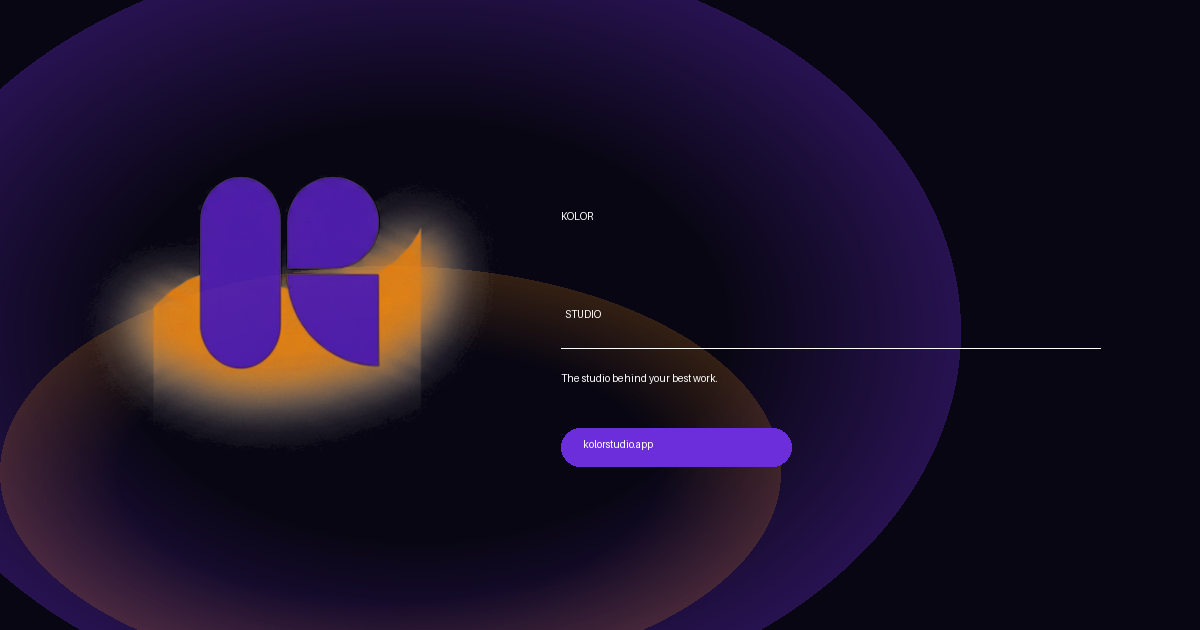
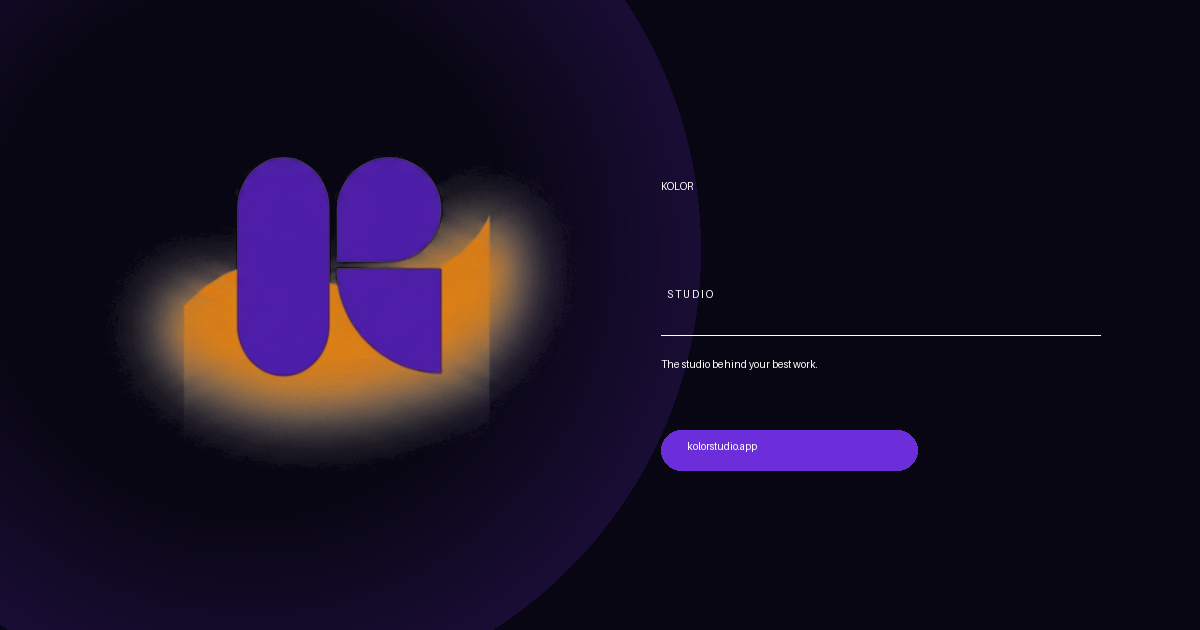
fix: OG card composition + title/description length
- Regenerated og-card.png: cleaner composition, larger mark (320px),
  larger KOLOR text (96pt), tighter subtle glow, better text layout
- og:title expanded to 48 chars (was 12, below optimal)
- og:description expanded to 131 chars (was 91, below optimal)
- twitter:title and twitter:description updated to match

diff --git a/frontend/index.html b/frontend/index.html
@@ -24,14 +24,14 @@
     <meta property="og:image:width" content="1200" />
     <meta property="og:image:height" content="630" />
     <meta property="og:image:alt" content="KOLOR Studio — The studio behind your best work." />
-    <meta property="og:title" content="KOLOR Studio" />
-    <meta property="og:description" content="The studio behind your best work. CRM built for photographers, designers, and fine artists." />
+    <meta property="og:title" content="KOLOR Studio — CRM for Photographers &amp; Artists" />
+    <meta property="og:description" content="Leads, quotes, contracts, and calendar — in one tool built for photographers, designers, and fine artists. The studio behind your best work." />
     <meta property="og:url" content="https://kolorstudio.app" />
     <meta property="og:type" content="website" />
     <meta name="twitter:card" content="summary_large_image" />
     <meta name="twitter:image" content="https://kolorstudio.app/og-card.png" />
-    <meta name="twitter:title" content="KOLOR Studio" />
-    <meta name="twitter:description" content="The studio behind your best work." />
+    <meta name="twitter:title" content="KOLOR Studio — CRM for Photographers &amp; Artists" />
+    <meta name="twitter:description" content="Leads, quotes, contracts, and calendar — in one tool built for photographers, designers, and fine artists." />
   </head>
   <body>
     <div id="root"></div>
